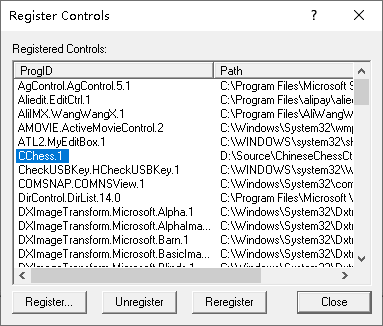
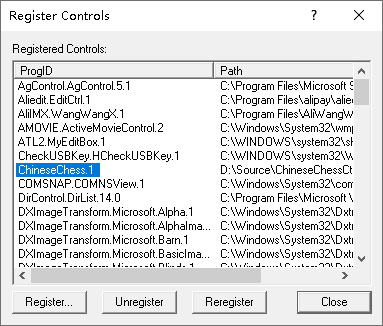
Modify name to ChineseChessControl

Changed region(s): [[0.0287, 0.4601, 0.4595, 0.5521], [0.5744, 0.4601, 0.9191, 0.5521]]

diff --git a/Src/ChineseChessControl.h b/Src/ChineseChessControl.h
@@ -1,11 +1,11 @@
-#if !defined(AFX_CHINESECHESSCTR_H__89039692_0185_487A_B9F9_8BDCC3CB20D1__INCLUDED_)
-#define AFX_CHINESECHESSCTR_H__89039692_0185_487A_B9F9_8BDCC3CB20D1__INCLUDED_
+#if !defined(AFX_ChineseChessControl_H__89039692_0185_487A_B9F9_8BDCC3CB20D1__INCLUDED_)
+#define AFX_ChineseChessControl_H__89039692_0185_487A_B9F9_8BDCC3CB20D1__INCLUDED_
 
 #if _MSC_VER > 1000
 #pragma once
 #endif // _MSC_VER > 1000
 
-// ChineseChessCtr.h : main header file for CHINESECHESSCTR.DLL
+// ChineseChessControl.h : main header file for ChineseChessControl.DLL
 
 #if !defined( __AFXCTL_H__ )
 #error include 'afxctl.h' before including this file
@@ -14,9 +14,9 @@
 #include "resource.h"       // main symbols
 
 /////////////////////////////////////////////////////////////////////////////
-// CChineseChessCtrApp : See ChineseChessCtr.cpp for implementation.
+// CChineseChessControlApp : See ChineseChessControl.cpp for implementation.
 
-class CChineseChessCtrApp : public COleControlModule
+class CChineseChessControlApp : public COleControlModule
 {
 public:
 	BOOL InitInstance();
@@ -30,4 +30,4 @@ extern const WORD _wVerMinor;
 //{{AFX_INSERT_LOCATION}}
 // Microsoft Visual C++ will insert additional declarations immediately before the previous line.
 
-#endif // !defined(AFX_CHINESECHESSCTR_H__89039692_0185_487A_B9F9_8BDCC3CB20D1__INCLUDED)
+#endif // !defined(AFX_ChineseChessControl_H__89039692_0185_487A_B9F9_8BDCC3CB20D1__INCLUDED)

diff --git a/Src/ChineseChessControl.cpp b/Src/ChineseChessControl.cpp
@@ -1,7 +1,7 @@
-// ChineseChessCtr.cpp : Implementation of CChineseChessCtrApp and DLL registration.
+// ChineseChessControl.cpp : Implementation of CChineseChessControlApp and DLL registration.
 
 #include "stdafx.h"
-#include "ChineseChessCtr.h"
+#include "ChineseChessControl.h"
 
 #ifdef _DEBUG
 #define new DEBUG_NEW
@@ -10,7 +10,7 @@ static char THIS_FILE[] = __FILE__;
 #endif
 
 
-CChineseChessCtrApp NEAR theApp;
+CChineseChessControlApp NEAR theApp;
 
 const GUID CDECL BASED_CODE _tlid =
 		{ 0xf21f4040, 0x9ee2, 0x42ec, { 0x91, 0, 0x9d, 0x2f, 0x79, 0x23, 0xfc, 0x38 } };
@@ -19,9 +19,9 @@ const WORD _wVerMinor = 0;
 
 
 ////////////////////////////////////////////////////////////////////////////
-// CChineseChessCtrApp::InitInstance - DLL initialization
+// CChineseChessControlApp::InitInstance - DLL initialization
 
-BOOL CChineseChessCtrApp::InitInstance()
+BOOL CChineseChessControlApp::InitInstance()
 {
 	BOOL bInit = COleControlModule::InitInstance();
 
@@ -41,9 +41,9 @@ BOOL CChineseChessCtrApp::InitInstance()
 
 
 ////////////////////////////////////////////////////////////////////////////
-// CChineseChessCtrApp::ExitInstance - DLL termination
+// CChineseChessControlApp::ExitInstance - DLL termination
 
-int CChineseChessCtrApp::ExitInstance()
+int CChineseChessControlApp::ExitInstance()
 {
 	// TODO: Add your own module termination code here.
 

diff --git a/Src/GoRule.cpp b/Src/GoRule.cpp
@@ -10,7 +10,7 @@
 *******************************************************************************************************/
 
 #include "stdafx.h"
-#include "ChineseChessCtr.h"
+#include "ChineseChessControl.h"
 #include "GoRule.h"
 
 #ifdef _DEBUG

diff --git a/Src/XQCtl.cpp b/Src/XQCtl.cpp
@@ -1,7 +1,7 @@
 // XQCtl.cpp : Implementation of the CXQCtrl ActiveX Control class.
 
 #include "Stdafx.h"
-#include "ChineseChessCtr.h"
+#include "ChineseChessControl.h"
 #include "XQCtl.h"
 #include "XQPpg.h"
 

diff --git a/Src/Common.cpp b/Src/Common.cpp
@@ -3,7 +3,7 @@
 //////////////////////////////////////////////////////////////////////
 
 #include "stdafx.h"
-#include "ChineseChessCtr.h"
+#include "ChineseChessControl.h"
 #include "common.h"
 
 #ifdef _DEBUG

diff --git a/Src/XQPpg.cpp b/Src/XQPpg.cpp
@@ -1,7 +1,7 @@
 // XQPpg.cpp : Implementation of the CXQPropPage property page class.
 
 #include "stdafx.h"
-#include "ChineseChessCtr.h"
+#include "ChineseChessControl.h"
 #include "XQPpg.h"
 
 #ifdef _DEBUG

diff --git a/README.md b/README.md
@@ -9,6 +9,7 @@
 - [屏幕截图](#屏幕截图)
 - [许可协议](License.md)
 - [修改日志](ChangeLog.md)
+- [下载安装包](#下载安装包)
 - [开发](#开发)
   + [编译](#编译)
   + [调试](#调试)
@@ -24,9 +25,9 @@
 
 - 中国象棋 ActivX 控件
 
-- 项目主页：https://github.com/KangLin/ChineseChessCtr
+- 项目主页：https://github.com/KangLin/ChineseChessControl
 
-[![Build status](https://ci.appveyor.com/api/projects/status/x9vc3w9ccniqm62c?svg=true)](https://ci.appveyor.com/project/KangLin/chinesechessctr)
+[![Build status](https://ci.appveyor.com/api/projects/status/lxs0mxtdl238yrq4?svg=true)](https://ci.appveyor.com/project/KangLin/chinesechesscontrol)
 
 #### 捐赠
 本软件如果对你有用，或者你喜欢它，请你捐赠，支持作者。谢谢！
@@ -39,6 +40,11 @@
 
 #### [许可协议](License.md)
 #### [修改日志](ChangeLog.md)
+#### [下载安装包](https://github.com/KangLin/ChineseChessControl/releases/latest)
+
+- windows
+    - [ChineseChessControl-Setup-v1.0.0.exe](https://github.com/KangLin/ChineseChessControl/releases/download/v1.0.0/ChineseChessControl-Setup-v1.0.0.exe)
+  Windows安装包，支持 Windows xp 以上系统
 
 #### 开发
 
@@ -50,8 +56,8 @@
       cmake ..
       cmake --build .
 
-- 用VC6.0打开 Src/ChineseChessCtr.dsw,直接编译。不再支持此方法编译
-- 用 VC2017 打开 Src/ChineseChessCtr.sln ,直接编译。不再支持此方法编译
+- 用VC6.0打开 Src/ChineseChessControl.dsw,直接编译。不再支持此方法编译
+- 用 VC2017 打开 Src/ChineseChessControl.sln ,直接编译。不再支持此方法编译
 
 ##### 调试
 ###### VC6.0
@@ -62,7 +68,7 @@
   **注意**:需要管理员权限
   + 手工注册
 
-				regsvr32 /s /c "D:\Source\ChineseChessCtr\Src\.\DebugU\ChineseChessCtr.ocx" 
+				regsvr32 /s /c "D:\Source\ChineseChessControl\Src\.\DebugU\ChineseChessControl.ocx" 
 
   + 用 ActiveX control test container 注册
     - 打开注册控件  
